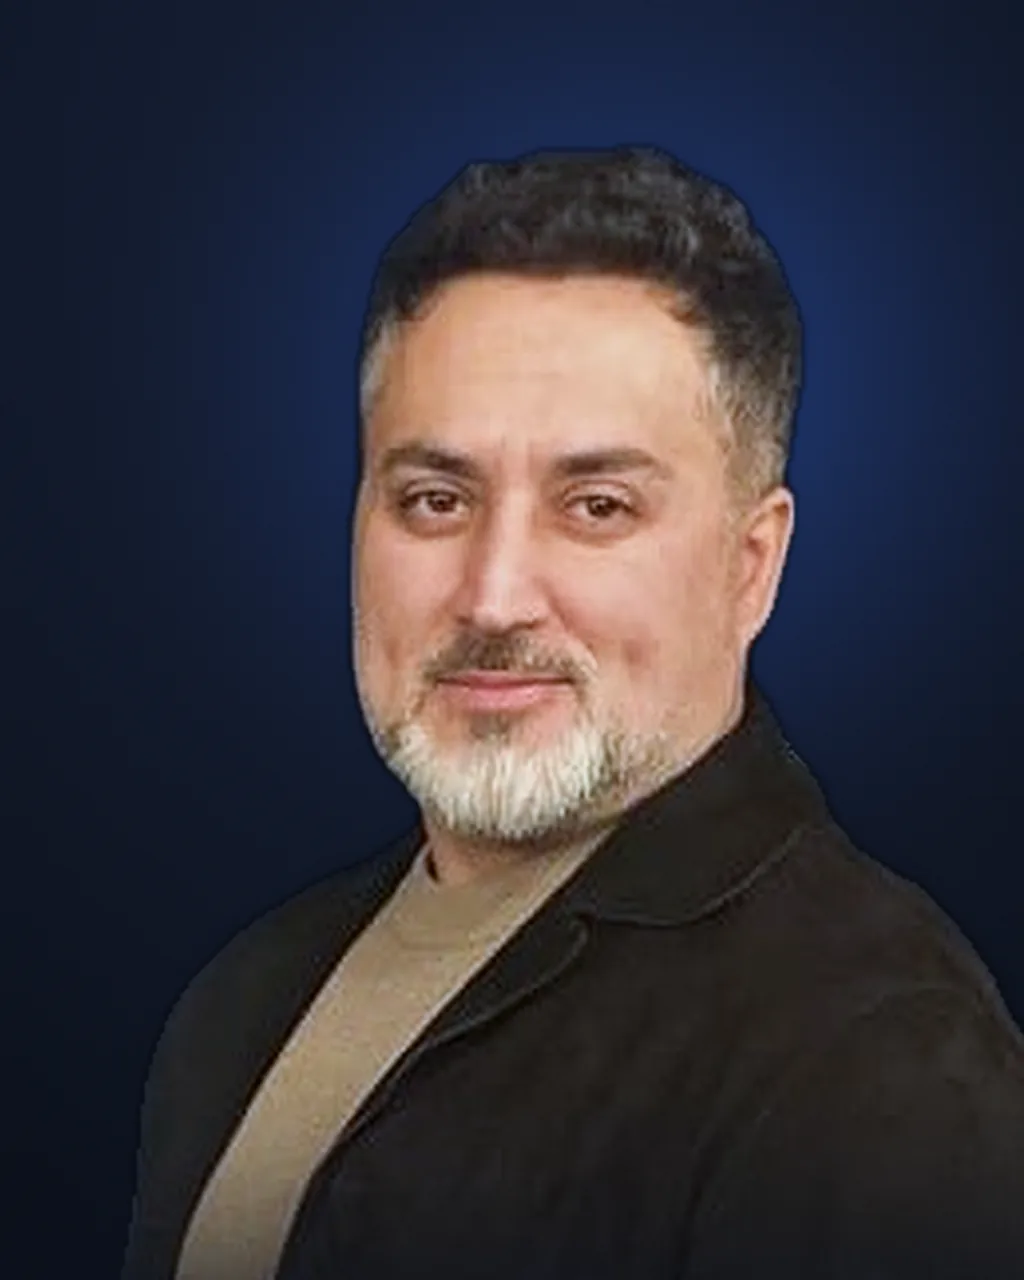
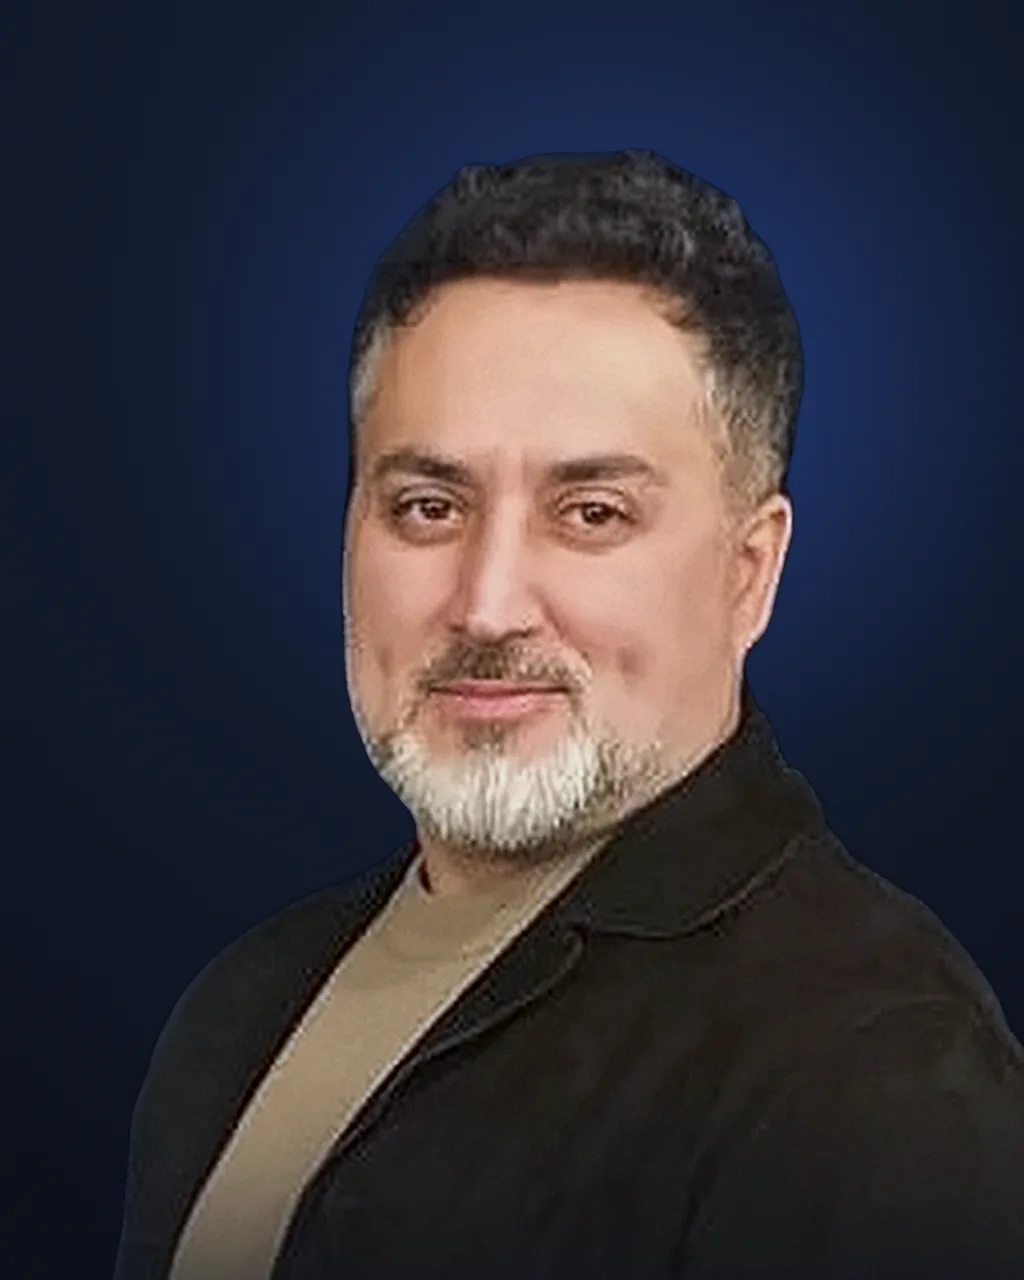
Sharper Navid portrait (denoise + staged 4x enlarge before cut-out)

diff --git a/docs/seo-log.md b/docs/seo-log.md
@@ -111,4 +111,4 @@ Weekly improvement runs append here: what changed, why, and what to do next. New
 ## Nov 9, 2026 — team portraits, one studio style (branch team-photos, by hand)
 - Team photos taken from the team page on the old site (neilsmithconstructionltd.com/team), one real photo per person (8). Each was cut out (rembg isnet-general-use), placed on the same NSC navy studio background, framed by eye position so every head is the same size and height, given the same gentle colour grade, and had background colour fringes cleaned off the hair. Faces and clothing are not altered. Script: scripts/team-headshots.py (sources were the old-site originals).
 - Files media/team-<name>-{640,1280}.webp/.avif (4:5, 26–74 KB). Person records have photo set; About and home team cards now show the portrait at the top of each card.
-- Navid's original is small (362 px), so his portrait is softer than the others when shown large; a new phone photo against any plain wall would fix it.
+- Navid's original is small (362 px). It was cleaned of JPEG noise and enlarged 4x in two steps with gentle detail sharpening and fine grain (OpenCV only) before the cut-out, so it now sits close to the others. An AI upscaler (Real-ESRGAN) was not run; a new phone photo against any plain wall would still be best.
